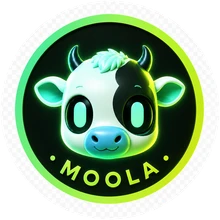
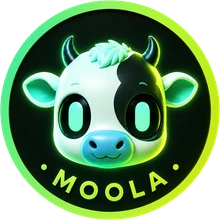
Fix coin: trim white ring + stop text spinning upside down
- Trim the coin art's flat white margin before circle-masking so no white ring
  shows around it on the dark UI
- Mining coin now gently pulses instead of full-rotating, keeping the "MOOLA"
  text upright (a text coin shouldn't spin in-plane); the energy ring still spins

Claude-Session: https://claude.ai/code/session_0124biQJeuDUJKS1FNQz4ZeJ

diff --git a/src/screens/Mine.tsx b/src/screens/Mine.tsx
@@ -147,8 +147,8 @@ export function MineScreen() {
         >
           <motion.div
             className="relative h-full w-full"
-            animate={mining.active ? { rotate: 360 } : { rotate: 0 }}
-            transition={mining.active ? { duration: 14, repeat: Infinity, ease: 'linear' } : { duration: 0.4 }}
+            animate={mining.active ? { scale: [1, 1.035, 1] } : { scale: 1 }}
+            transition={mining.active ? { duration: 2.4, repeat: Infinity, ease: 'easeInOut' } : { duration: 0.3 }}
           >
             <Image
               src="/brand/coin.png"
